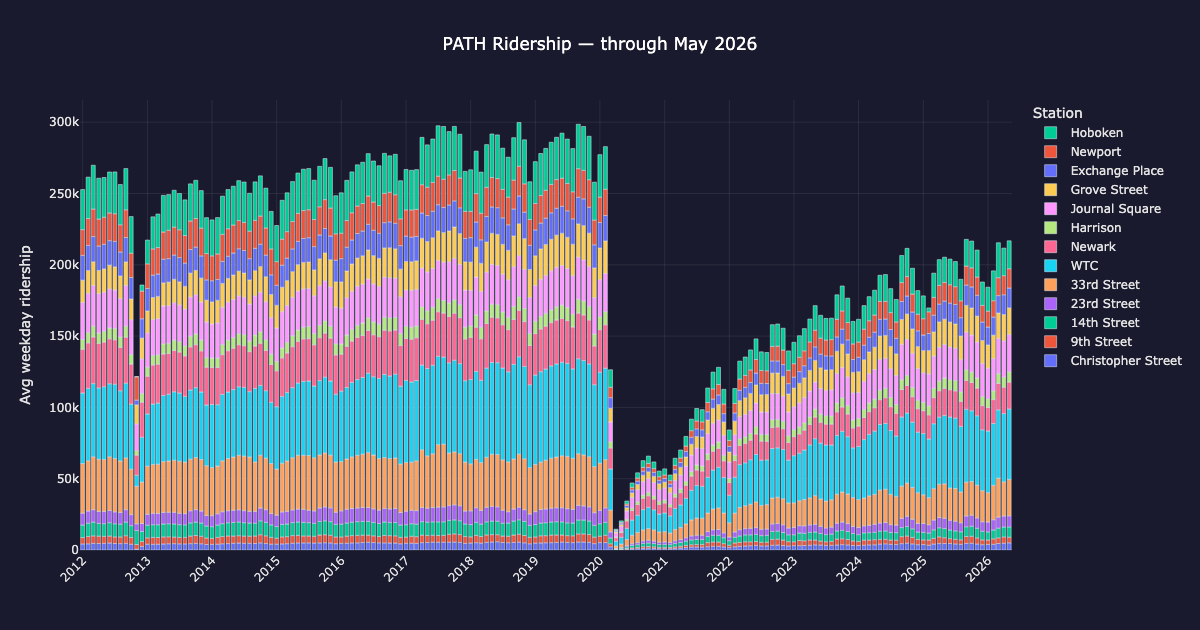
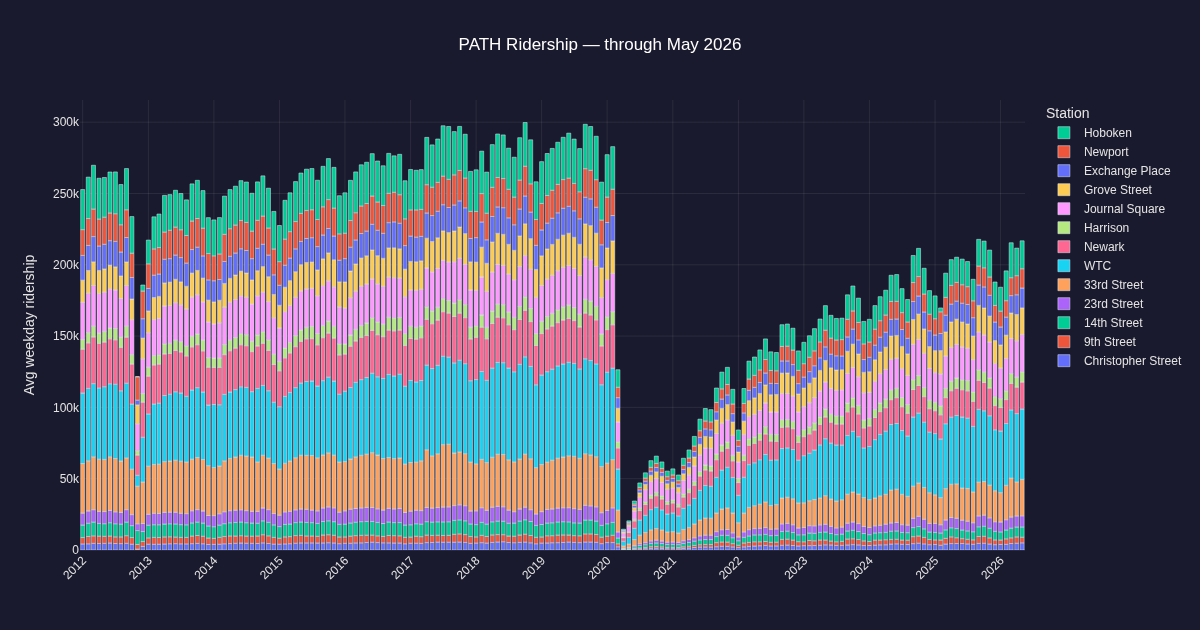
Deploying to gh-pages from @ hudcostreets/path@685eefefeb72876aa06ecec97a213349a21cb4a3 🚀

diff --git a/assets/StationsMap-CQW4zZe2.js b/assets/StationsMap-CQW4zZe2.js
@@ -1,0 +1,10 @@
+import{r as p,b as Yt,a as Tt,j as s,s as Ut,Y as Lt,m as Zt,k as Xt,p as Dt,q as Vt,t as Jt}from"./index-DgL8wgz9.js";import{L as w}from"./leaflet-src-CVnO63gc.js";const vt={Newark:[-74.1641,40.7344],Harrison:[-74.1556,40.7367],"Journal Square":[-74.0625,40.733],"Grove Street":[-74.0426,40.7196],"Exchange Place":[-74.0328,40.7165],Newport:[-74.0339,40.7264],Hoboken:[-74.0288,40.7362],WTC:[-74.0116,40.7121],"Christopher St.":[-74.0069,40.7337],"9th Street":[-74.0011,40.7346],"14th Street":[-73.9973,40.7373],"23rd Street":[-73.9924,40.7426],"33rd Street":[-73.9886,40.7492]},Et=Xt("hourly.pqt"),Ot=Et.startsWith("/")?`${window.location.origin}${Et}`:Et,Kt=Zt("pie",{pie:"p",bars:"b"}),S=-1,Qt={encode(e){return e===S?void 0:String(e)},decode(e){if(e===void 0)return S;const c=e.indexOf(":"),f=c>=0?Number(e.slice(0,c))+Number(e.slice(c+1))/60:Number(e);return Number.isFinite(f)&&f>=0&&f<24?f:S}},St="#22c55e",kt="#f97316",k=80,$t=new Set(["Newark","Harrison"]),Gt=e=>!$t.has(e),ct=(k+2)*2;function Nt(e){const c=Math.floor(e)%24,f=(c+1)%24,x=m=>m===0||m===12?"12":String(m%12),g=m=>m<12?"am":"pm";return g(c)===g(f)?`${x(c)}-${x(f)}${g(c)}`:`${x(c)}${g(c)}-${x(f)}${g(f)}`}function Mt(e){return e<1e3?String(Math.round(e)):e<1e4?(e/1e3).toFixed(1)+"k":Math.round(e/1e3)+"k"}function ue({embedded:e=!1,activeStations:c,dateRange:f,onDateRangeChange:x,onDataDefault:g}={}){const m=p.useMemo(()=>{if(!c)return null;const n=c.map(o=>o==="Christopher Street"?"Christopher St.":o);return n.length===0||n.length>=Object.keys(vt).length?null:new Set(n)},[c]),u=p.useRef(null),h=p.useRef(null),X=p.useRef(null),D=p.useRef(null),C=p.useRef(new Map),{data:E}=Yt({queryKey:["stations-hourly-rows",Ot],refetchOnWindowFocus:!1,refetchInterval:!1,queryFn:async()=>{const n=await Dt({url:Ot}),o=[];await Vt({file:n,columns:["Station","Year","Month","Hour","Avg Weekday Entry","Avg Saturday Entry","Avg Sunday Entry","Avg Weekday Exit","Avg Saturday Exit","Avg Sunday Exit"],rowFormat:"object",compressors:Jt,onComplete:t=>o.push(...t)});const a=t=>Number(t)||0;return o.map(t=>({station:t.Station,ym:`${a(t.Year)}-${String(a(t.Month)).padStart(2,"0")}`,hour:a(t.Hour),entries:(5*a(t["Avg Weekday Entry"])+a(t["Avg Saturday Entry"])+a(t["Avg Sunday Entry"]))/7,exits:(5*a(t["Avg Weekday Exit"])+a(t["Avg Saturday Exit"])+a(t["Avg Sunday Exit"]))/7}))}}),R=p.useMemo(()=>E?Array.from(new Set(E.map(n=>n.ym))).sort():[],[E]),[j,A]=f??["",""],et=n=>x==null?void 0:x([n,A]),st=n=>x==null?void 0:x([j,n]),[q,V]=Tt("mh",Qt),[rt,ut]=p.useState(q),ot=rt,K=ut,[wt,jt]=p.useState(null),T=wt??ot,[B,at]=Tt("ms",Kt),[Y,dt]=p.useState(300),[L,i]=p.useState(q===S);p.useEffect(()=>{L||ut(q)},[q,L]),p.useEffect(()=>{V(L?S:rt)},[L]);const[M,U]=p.useState(!1);p.useEffect(()=>{const n=h.current??u.current;if(!n)return;const o=new IntersectionObserver(([a])=>U(a.isIntersecting),{threshold:.3});return o.observe(n),()=>o.disconnect()},[]),p.useEffect(()=>{if(!M)return;const n=o=>{var t;if(o.code!=="Space")return;const a=o.target;(t=a==null?void 0:a.matches)!=null&&t.call(a,'input, textarea, select, [contenteditable="true"]')||(o.preventDefault(),i(r=>!r))};return document.addEventListener("keydown",n),()=>document.removeEventListener("keydown",n)},[M]);const N=p.useRef(ot);N.current=ot,p.useEffect(()=>{if(!L)return;N.current===S&&K(0);const n=Math.max(Y,120);let o;const a=()=>{o===void 0&&(o=window.setInterval(()=>{if(document.hidden)return;const d=N.current;K(d===S?0:(d+1)%24)},n))},t=()=>{o!==void 0&&(clearInterval(o),o=void 0)},r=()=>{document.hidden?t():a()};return document.hidden||a(),document.addEventListener("visibilitychange",r),()=>{t(),document.removeEventListener("visibilitychange",r)}},[L,Y,K]),p.useEffect(()=>{R.length&&(g==null||g([R[0],R[R.length-1]]))},[R,g]);const _=typeof window<"u"&&new URLSearchParams(window.location.search).has("record"),xt=typeof window>"u"?null:new URLSearchParams(window.location.search).get("desc"),pt=xt!==null,[Bt,It]=(()=>{const n=(()=>{if(!j||!A)return"";const d=$=>{const[b,P]=$.split("-");return`${["Jan","Feb","Mar","Apr","May","Jun","Jul","Aug","Sep","Oct","Nov","Dec"][+P-1]} ${b}`};return j===A?d(j):`${d(j)} – ${d(A)}`})(),o="PATH faregate ridership, by hour",a=s.jsxs(s.Fragment,{children:[s.jsx("span",{style:{color:St},children:"green"})," = entries · ",s.jsx("span",{style:{color:kt},children:"orange"})," = exits",n&&` · ${n} avg`]});if(!xt)return[o,a];const[t,r]=xt.split("|");return[t||o,r??a]})();p.useEffect(()=>{_&&(window.__pathMap={setHour:n=>{i(!1),K(n)},setAnimMs:n=>dt(n),setShape:n=>at(n),setRange:(n,o)=>{et(n),st(o)}})},[_,K,at]);const yt=p.useMemo(()=>{const n=new Map;if(!E)return n;const o=j&&A?E.filter(t=>t.ym>=j&&t.ym<=A):E,a=new Map;for(const t of o){let r=a.get(t.station);r||(r=new Map,a.set(t.station,r));let d=r.get(t.hour);d||(d=new Map,r.set(t.hour,d));const $=d.get(t.ym)??{e:0,x:0};$.e+=t.entries,$.x+=t.exits,d.set(t.ym,$)}for(const[t,r]of a){const d=new Map;for(const[$,b]of r){const P=Array.from(b.values()),I=Math.max(1,P.length);d.set($,{e:P.reduce((z,J)=>z+J.e,0)/I,x:P.reduce((z,J)=>z+J.x,0)/I})}n.set(t,d)}return n},[E,j,A]),ft=p.useMemo(()=>Array.from(yt.entries()).map(([n,o])=>{if(T===S){let b=0,P=0;for(const I of o.values())b+=I.e,P+=I.x;return{station:n,entries:b,exits:P,bucketEntries:b,bucketExits:P}}const a=Math.floor(T)%24,t=(a+1)%24,r=T-Math.floor(T),d=o.get(a)??{e:0,x:0},$=o.get(t)??{e:0,x:0};return{station:n,entries:d.e*(1-r)+$.e*r,exits:d.x*(1-r)+$.x*r,bucketEntries:d.e,bucketExits:d.x}}),[yt,T]),Ht=p.useMemo(()=>{let n=1,o=1;for(const a of yt.values()){let t=0;for(const r of a.values()){const d=r.e+r.x;d>n&&(n=d),t+=d}t>o&&(o=t)}return T===S?o:n},[yt,T]),gt=p.useMemo(()=>{let n=0,o=0;for(const a of ft)m!==null&&!m.has(a.station)||(n+=a.bucketEntries,o+=a.bucketExits);return{entries:n,exits:o}},[ft,m]),[Rt,_t]=p.useState(null);p.useEffect(()=>{if(!u.current||!h.current||X.current||D.current)return;const n={zoomSnap:.5,zoomControl:!1,dragging:!1,scrollWheelZoom:!1,doubleClickZoom:!1,boxZoom:!1,keyboard:!1,touchZoom:!1},o={attribution:"",subdomains:"abcd",maxZoom:19},a="https://{s}.basemaps.cartocdn.com/dark_all/{z}/{x}/{y}{r}.png",t=w.map(u.current,{...n,center:[40.736,-74.16],zoom:14});w.tileLayer(a,o).addTo(t),t.attributionControl.remove(),X.current=t;const r=w.map(h.current,{...n,center:[40.73,-74.02],zoom:13});w.tileLayer(a,o).addTo(r),r.attributionControl.remove(),D.current=r;const d=w.Control.extend({onAdd(){const l=w.DomUtil.create("div","leaflet-control map-attr-info");return l.innerHTML='<span class="info-icon" aria-label="Map attribution">ⓘ</span><span class="info-text">© <a href="https://www.openstreetmap.org/copyright" target="_blank" rel="noopener">OpenStreetMap</a> contributors · © <a href="https://carto.com/attributions" target="_blank" rel="noopener">CARTO</a></span>',w.DomEvent.disableClickPropagation(l),l}});new d({position:"bottomleft"}).addTo(r);const $=w.Control.extend({onAdd(){const l=w.DomUtil.create("div","leaflet-control map-clock-control");return w.DomEvent.disableClickPropagation(l),w.DomEvent.disableScrollPropagation(l),_t(l),l}});new $({position:"topleft"}).addTo(t);const b=w.latLngBounds(Object.entries(vt).filter(([l])=>$t.has(l)).map(([l,[H,y]])=>[y,H])),P=w.latLngBounds(Object.entries(vt).filter(([l])=>Gt(l)).map(([l,[H,y]])=>[y,H])),I=(l,H,y)=>{const O=l.getSize(),F=O.x-y.left-y.right,G=O.y-y.top-y.bottom;if(F<=0||G<=0)return l.getZoom();const it=l.options.zoomSnap||1;let W=l.getMaxZoom()??19;const nt=H.getSouthWest(),tt=H.getNorthEast();for(;W>0;){const ht=l.project(nt,W),mt=l.project(tt,W);if(Math.abs(mt.x-ht.x)<=F&&Math.abs(mt.y-ht.y)<=G)break;W-=it}return W},z=(l,H,y,O)=>{const F=l.getSize(),G=F.x-O.left-O.right,it=F.y-O.top-O.bottom,W=l.project(H.getCenter(),y),nt=w.point(O.left+G/2,O.top+it/2),tt=w.point(F.x/2,F.y/2).subtract(nt);l.setView(l.unproject(W.add(tt),y),y,{animate:!1})},J={top:130,bottom:60},Z={top:30,bottom:60},v=30,bt=()=>{const l={...J,left:v,right:v},H={...Z,left:v,right:v},y=Math.min(I(t,b,l),I(r,P,H)),O=tt=>Math.abs(r.project(tt.getNorthEast(),y).x-r.project(tt.getSouthWest(),y).x),F=O(b),G=O(P),it=u.current.parentElement.getBoundingClientRect().width,W=(it-F-G)/3,nt=28;if(W>=2*v+nt){const tt=(W-nt)/2,ht=W+F+tt;u.current.style.flexBasis=`${ht}px`,h.current.style.flexBasis=`${it-ht-nt}px`,t.invalidateSize(),r.invalidateSize();const mt=.5*W+14;z(t,b,y,{...J,left:v+mt,right:v}),z(r,P,y,{...Z,left:v,right:v+mt})}else z(t,b,y,{...J,left:v,right:v}),z(r,P,y,{...Z,left:v,right:v})};bt();const Q=new ResizeObserver(()=>{t.invalidateSize(),r.invalidateSize(),bt()});Q.observe(u.current),Q.observe(h.current);for(const[l,[H,y]]of Object.entries(vt)){const O=w.divIcon({html:`<div class="station-glyph" style="width:${ct}px;height:${ct}px"></div><span class="value-label value-label-entry"></span><span class="value-label value-label-exit"></span><span class="station-name">${l}</span>`,className:"station-pie",iconSize:[ct,ct],iconAnchor:[ct/2,ct/2]}),F=$t.has(l)?t:r,G=w.marker([y,H],{icon:O}).addTo(F);C.current.set(l,G)}return()=>{Q.disconnect(),t.remove(),r.remove(),X.current=null,D.current=null,C.current.clear()}},[]),p.useEffect(()=>{if(!ft.length)return;const n=new Map(ft.map(o=>[o.station,o]));for(const[o,a]of C.current){const t=n.get(o),r=a.getElement(),d=r==null?void 0:r.querySelector(".station-glyph");if(!d||!r)continue;const $=m!==null&&!m.has(o);if(r.style.opacity=$?"0.28":"1",a.setZIndexOffset($?-500:500),r.style.setProperty("--anim-ms",`${Y}ms`),r.style.setProperty("--anim-easing",L?"linear":"ease"),re(d,B),!t){d.style.transform="scale(0)";continue}const b=t.entries+t.exits,P=b/Ht,I=Math.max(.05,Math.sqrt(Math.max(0,P)));d.style.transform=`scale(${I})`,B==="pie"?ae(d,t.entries,t.exits,Y,L):ie(d,t.entries,t.exits);const z=b>0?t.exits/b:0,J=(B==="pie"?k:z*k)*I;r.style.setProperty("--marker-extent",`${J}px`);const Z=r.querySelector(".value-label-entry"),v=r.querySelector(".value-label-exit");if(Z&&v)if(Z.textContent=Mt(t.bucketEntries),v.textContent=Mt(t.bucketExits),B==="pie"){const Q=b>0?t.entries/b:.5,l=-Math.PI/2+Q*Math.PI,H=Math.PI/2+Q*Math.PI,y=k*.62*I;Z.style.setProperty("--lx",`${y*Math.cos(l)}px`),Z.style.setProperty("--ly",`${y*Math.sin(l)}px`),v.style.setProperty("--lx",`${y*Math.cos(H)}px`),v.style.setProperty("--ly",`${y*Math.sin(H)}px`)}else{const Q=b>0?t.entries/b:0;Z.style.setProperty("--lx","0px"),Z.style.setProperty("--ly",`${-(Q*k*I+9)}px`),v.style.setProperty("--lx","0px"),v.style.setProperty("--ly",`${z*k*I+9}px`)}const bt=T===S?"All hours":Nt(T);a.bindPopup(`<strong>${o}</strong><br/><span style="opacity:0.7">${bt}</span><br/>Avg entries: ${Math.round(t.bucketEntries).toLocaleString()}<br/>Avg exits: ${Math.round(t.bucketExits).toLocaleString()}`)}},[ft,Ht,B,Y,L,m,T]);const zt=T===S?"All hours":Nt(T),Ct=e?{width:"100%",display:"flex",flexDirection:"column",margin:"1em 0"}:{display:"flex",flexDirection:"column",height:"100vh"},qt=e?{height:460,minHeight:280,resize:"vertical",overflow:"hidden",display:"flex",alignItems:"stretch"}:{flex:1,minHeight:0,display:"flex",alignItems:"stretch"},Pt={height:"100%"};return s.jsxs("div",{style:Ct,children:[!e&&s.jsx("div",{style:{padding:"0.75rem 1rem 0.4rem"},children:s.jsx("h1",{style:{margin:0,fontSize:"1.25rem"},children:"PATH stations — avg daily entries & exits"})}),s.jsxs("div",{style:{...qt,position:"relative"},children:[s.jsx("div",{ref:u,className:"map-pane-nj",style:{...Pt,flex:"0 0 27%"}}),s.jsx("div",{className:"map-elide-divider","aria-hidden":!0,style:{...Pt,flex:"0 0 28px"}}),s.jsx("div",{ref:h,className:"map-pane-core",style:{...Pt,flex:"1 1 auto"}}),pt&&s.jsxs("div",{style:{position:"absolute",top:10,left:0,right:0,textAlign:"center",pointerEvents:"none",zIndex:500,color:"#fff",textShadow:"0 1px 4px rgba(0,0,0,0.85), 0 0 2px rgba(0,0,0,0.85)"},children:[s.jsx("div",{style:{fontSize:"1.4rem",fontWeight:600,lineHeight:1.15},children:Bt}),It&&s.jsx("div",{style:{fontSize:"0.95rem",opacity:.92,marginTop:4},children:It})]})]}),Rt&&Ut.createPortal(s.jsxs("div",{className:`map-clock-panel${_?" map-clock-panel--record":""}`,children:[!_&&s.jsx("button",{type:"button",className:"map-clock-play",onClick:()=>i(n=>!n),title:L?"Pause hour cycle":"Cycle through hours",children:L?"⏸":"▶"}),s.jsx("div",{className:"map-clock-row",children:s.jsx(ee,{hour:ot,onChange:n=>{K(n),i(!1)},onHoverChange:jt,animMs:_?0:Math.max(Y,120),playing:L})}),s.jsx("div",{className:"map-clock-big-label",children:zt}),(gt.entries>0||gt.exits>0)&&s.jsxs("div",{className:"map-clock-totals",children:[s.jsx("span",{style:{color:St},children:Mt(gt.entries)}),s.jsx("span",{className:"map-clock-totals-sep",children:"·"}),s.jsx("span",{style:{color:kt},children:Mt(gt.exits)})]})]}),Rt),!_&&s.jsxs("div",{style:{padding:"0.4rem 0",fontSize:"0.85rem",color:"#888",display:"flex",gap:"1.2em",alignItems:"center",flexWrap:"wrap"},children:[s.jsxs("span",{children:[s.jsx("span",{style:{color:St},children:"green"}),"/",s.jsx("span",{style:{color:kt},children:"orange"})," = entries/exits"]}),!e&&j&&A&&s.jsxs("span",{children:[s.jsx(Lt,{value:j,onChange:et,allYms:R})," – ",s.jsx(Lt,{value:A,onChange:st,allYms:R})]}),s.jsxs("span",{children:["Shape:"," ",s.jsxs("select",{value:B,onChange:n=>at(n.target.value),style:te,children:[s.jsx("option",{value:"pie",children:"Pie"}),s.jsx("option",{value:"bars",children:"Bars"})]})]}),s.jsxs("span",{children:["Anim: ",s.jsxs("strong",{style:{minWidth:"3em",display:"inline-block"},children:[Y,"ms"]})," ",s.jsx("input",{type:"range",min:0,max:1500,step:50,value:Y,onChange:n=>dt(parseInt(n.target.value)),style:{verticalAlign:"middle",width:"10em"}})]}),s.jsxs("span",{children:["24h loop:"," ",s.jsx("a",{href:"/pie-map-24h.gif",target:"_blank",rel:"noopener",children:".gif"})," · ",s.jsx("a",{href:"/pie-map-24h.mp4",target:"_blank",rel:"noopener",children:".mp4"})]}),!e&&s.jsx("a",{href:"/",children:"← PATH ridership"})]})]})}const te={background:"#222",color:"#ddd",border:"1px solid #444",borderRadius:4,padding:"0.15em 0.4em",fontSize:"0.85rem"};function ee({hour:e,onChange:c,onHoverChange:f,animMs:x=400,playing:g=!1,size:m=88}){const u=m/2,h=m/2,X=m/2-1,D=X-2,C=D-5,E=C-7,R=C-2,j=m*.18,A=p.useRef(null),[et,st]=p.useState(null),q=e===S,V=et??e,rt=et!==null;p.useEffect(()=>{f==null||f(et)},[et,f]),p.useEffect(()=>()=>f==null?void 0:f(null),[f]);const ut=(i,M)=>{const U=A.current.getBoundingClientRect(),N=i-U.left-u,_=M-U.top-h;if(Math.hypot(N,_)<j)return null;let pt=Math.atan2(_,N)+Math.PI/2;return pt<0&&(pt+=2*Math.PI),Math.round(pt/(2*Math.PI/24))%24},ot=i=>{if(i.target.closest("[data-clock-center]"))return;i.currentTarget.setPointerCapture(i.pointerId);const M=ut(i.clientX,i.clientY);M!==null&&(c(M),st(null))},K=i=>{const M=ut(i.clientX,i.clientY);i.currentTarget.hasPointerCapture(i.pointerId)?M!==null&&c(M):st(M)},wt=()=>st(null),jt=i=>i/24*2*Math.PI-Math.PI/2,T=V!==S,B=p.useRef(0),at=p.useRef(-2);if(V!==S){const i=at.current,M=V/24*360;if(i===-2||i===S)B.current=M;else if(i!==V){const U=(B.current%360+360)%360;let N=((M-U)%360+360)%360;!g&&N>180&&(N-=360),B.current+=N}}at.current=V;const Y=B.current,dt=[];for(let i=0;i<24;i++){const M=jt(i),U=i%6===0,N=U?C-2:C+1,_=i===V;dt.push(s.jsx("line",{x1:u+N*Math.cos(M),y1:h+N*Math.sin(M),x2:u+D*Math.cos(M),y2:h+D*Math.sin(M),stroke:_?"#fff":U?"#aaa":"#666",strokeWidth:U?1.4:1,strokeLinecap:"round"},i))}const L=[{h:0,label:"12a",dx:0,dy:-E+4,baseline:"hanging"},{h:6,label:"6a",dx:E-4,dy:0,baseline:"central"},{h:12,label:"12p",dx:0,dy:E-4,baseline:"auto"},{h:18,label:"6p",dx:-(E-4),dy:0,baseline:"central"}];return s.jsxs("svg",{ref:A,width:m,height:m,onPointerDown:ot,onPointerMove:K,onPointerLeave:wt,style:{touchAction:"none",userSelect:"none",WebkitTapHighlightColor:"transparent",outline:"none",flexShrink:0},role:"slider","aria-label":"Hour of day","aria-valuemin":-1,"aria-valuemax":23,"aria-valuenow":e,tabIndex:0,onKeyDown:i=>{i.key==="ArrowLeft"?(c(e<=0?23:e-1),i.preventDefault()):i.key==="ArrowRight"?(c(e===S?0:(e+1)%24),i.preventDefault()):i.key==="Escape"&&c(S)},children:[s.jsx("circle",{cx:u,cy:h,r:X,fill:"rgba(255,255,255,0.04)",stroke:"#444"}),dt,L.map(i=>s.jsx("text",{x:u+i.dx,y:h+i.dy,textAnchor:"middle",dominantBaseline:i.baseline,fill:"#888",fontSize:"9",pointerEvents:"none",children:i.label},i.label)),T&&s.jsxs("g",{style:{transform:`rotate(${Y}deg)`,transformOrigin:`${u}px ${h}px`,transition:rt?"transform 100ms ease-out":`transform ${x}ms linear`},pointerEvents:"none",children:[s.jsx("line",{x1:u,y1:h,x2:u,y2:h-R,stroke:rt?"rgba(255,255,255,0.55)":"#fff",strokeWidth:1.5,strokeLinecap:"round"}),s.jsx("circle",{cx:u,cy:h-R,r:3.5,fill:rt?"rgba(255,255,255,0.55)":"#fff"})]}),s.jsxs("g",{"data-clock-center":!0,style:{cursor:"pointer"},onClick:()=>c(q?0:S),children:[s.jsx("circle",{cx:u,cy:h,r:j,fill:q?"#3a3a5a":"#222",stroke:q?"#9a9af0":"#555"}),s.jsx("text",{x:u,y:h,textAnchor:"middle",dominantBaseline:"central",fill:q?"#fff":"#bbb",fontSize:"10",fontWeight:q?600:400,pointerEvents:"none",children:"All"})]})]})}const lt=k*2,ne=k*2,se=k*2,At=new WeakMap;function re(e,c){e.dataset.shape!==c&&(e.dataset.shape=c,e.style.background="",e.style.borderRadius="",e.style.boxShadow="",c==="pie"?(e.style.width=`${lt}px`,e.style.height=`${lt}px`,e.innerHTML=`<svg viewBox="-${k} -${k} ${lt} ${lt}" width="${lt}" height="${lt}" style="display:block">
+      <path class="pie-entry" fill="${St}" opacity="0.9"></path>
+      <path class="pie-exit" fill="${kt}" opacity="0.9"></path>
+      <circle r="${k}" fill="none" stroke="rgba(0,0,0,0.5)" stroke-width="1"/>
+    </svg>`):(e.style.width=`${ne}px`,e.style.height=`${se}px`,e.innerHTML=`
+      <div class="bars-row">
+        <div class="bar bar-entry"></div>
+        <div class="bar bar-exit"></div>
+      </div>
+    `))}function Ft(e,c){const f=k*Math.cos(e),x=k*Math.sin(e),g=k*Math.cos(c),m=k*Math.sin(c),u=c-e>Math.PI?1:0;return`M 0 0 L ${f} ${x} A ${k} ${k} 0 ${u} 1 ${g} ${m} Z`}function Wt(e,c){const f=-Math.PI/2,x=f+c*2*Math.PI,g=f+2*Math.PI,m=e.querySelector(".pie-entry"),u=e.querySelector(".pie-exit");m&&m.setAttribute("d",c>.001?Ft(f,x):""),u&&u.setAttribute("d",c<.999?Ft(x,g):"")}const oe=e=>e<.5?2*e*e:1-Math.pow(-2*e+2,2)/2;function ae(e,c,f,x,g){const m=c+f,u=m>0?c/m:.5,h=At.get(e)??{entryFrac:u,animId:0};if(cancelAnimationFrame(h.animId),x<=0||Math.abs(h.entryFrac-u)<5e-4){h.entryFrac=u,Wt(e,u),At.set(e,h);return}const X=h.entryFrac,D=performance.now(),C=g?R=>R:oe,E=R=>{const j=Math.min(1,(R-D)/x),A=X+(u-X)*C(j);h.entryFrac=A,Wt(e,A),j<1&&(h.animId=requestAnimationFrame(E))};h.animId=requestAnimationFrame(E),At.set(e,h)}function ie(e,c,f){const x=c+f,g=x>0?c/x:0,m=x>0?f/x:0,u=e.querySelector(".bar-entry"),h=e.querySelector(".bar-exit");u&&(u.style.height=`${g*50}%`),h&&(h.style.height=`${m*50}%`)}export{ue as default};

diff --git a/404.html b/404.html
@@ -24,7 +24,7 @@
     <meta property="og:type" content="website" />
     <meta property="og:site_name" content="Hudson County Complete Streets" />
     <meta name="twitter:card" content="summary_large_image" />
-    <script type="module" crossorigin src="/assets/index-CYFYAnja.js"></script>
+    <script type="module" crossorigin src="/assets/index-DgL8wgz9.js"></script>
     <link rel="stylesheet" crossorigin href="/assets/index-CsuiArKa.css">
   </head>
   <body>

diff --git a/bt/index.html b/bt/index.html
@@ -24,7 +24,7 @@
     <meta property="og:type" content="website" />
     <meta property="og:site_name" content="Hudson County Complete Streets" />
     <meta name="twitter:card" content="summary_large_image" />
-    <script type="module" crossorigin src="/assets/index-CYFYAnja.js"></script>
+    <script type="module" crossorigin src="/assets/index-DgL8wgz9.js"></script>
     <link rel="stylesheet" crossorigin href="/assets/index-CsuiArKa.css">
   </head>
   <body>

diff --git a/index.html b/index.html
@@ -24,7 +24,7 @@
     <meta property="og:type" content="website" />
     <meta property="og:site_name" content="Hudson County Complete Streets" />
     <meta name="twitter:card" content="summary_large_image" />
-    <script type="module" crossorigin src="/assets/index-CYFYAnja.js"></script>
+    <script type="module" crossorigin src="/assets/index-DgL8wgz9.js"></script>
     <link rel="stylesheet" crossorigin href="/assets/index-CsuiArKa.css">
   </head>
   <body>

diff --git a/map/index.html b/map/index.html
@@ -24,7 +24,7 @@
     <meta property="og:type" content="website" />
     <meta property="og:site_name" content="Hudson County Complete Streets" />
     <meta name="twitter:card" content="summary_large_image" />
-    <script type="module" crossorigin src="/assets/index-CYFYAnja.js"></script>
+    <script type="module" crossorigin src="/assets/index-DgL8wgz9.js"></script>
     <link rel="stylesheet" crossorigin href="/assets/index-CsuiArKa.css">
   </head>
   <body>